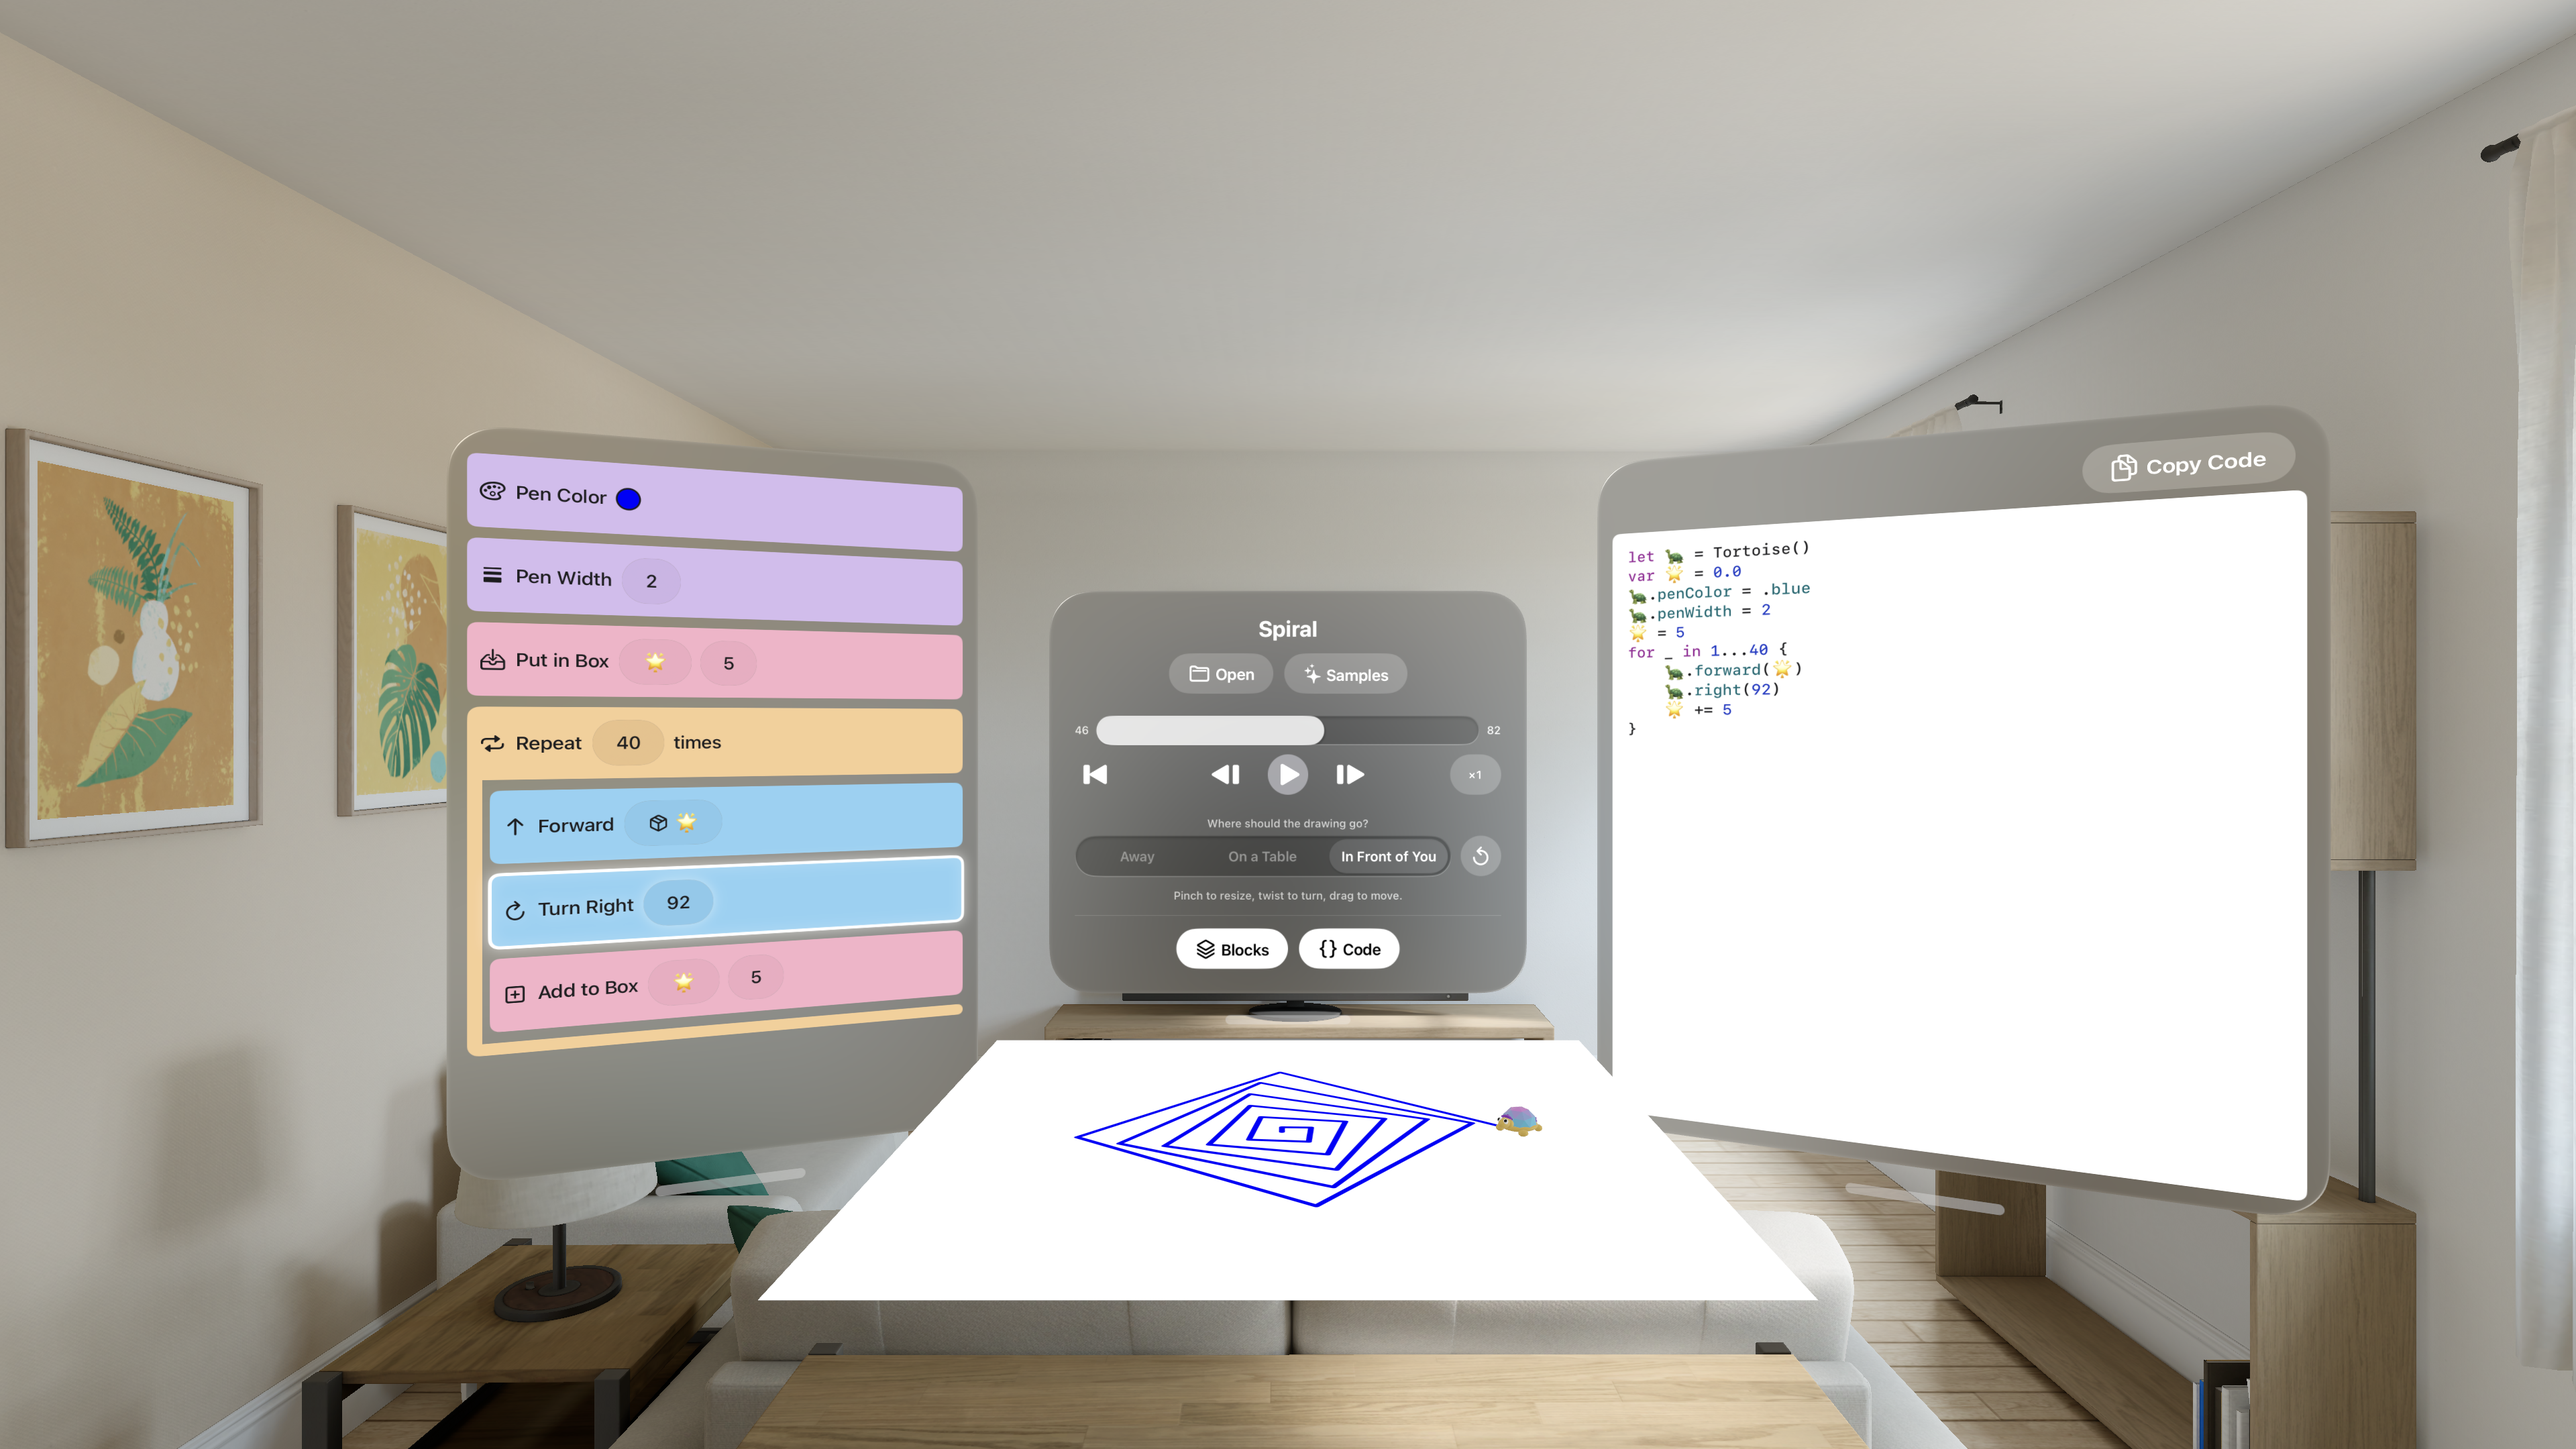
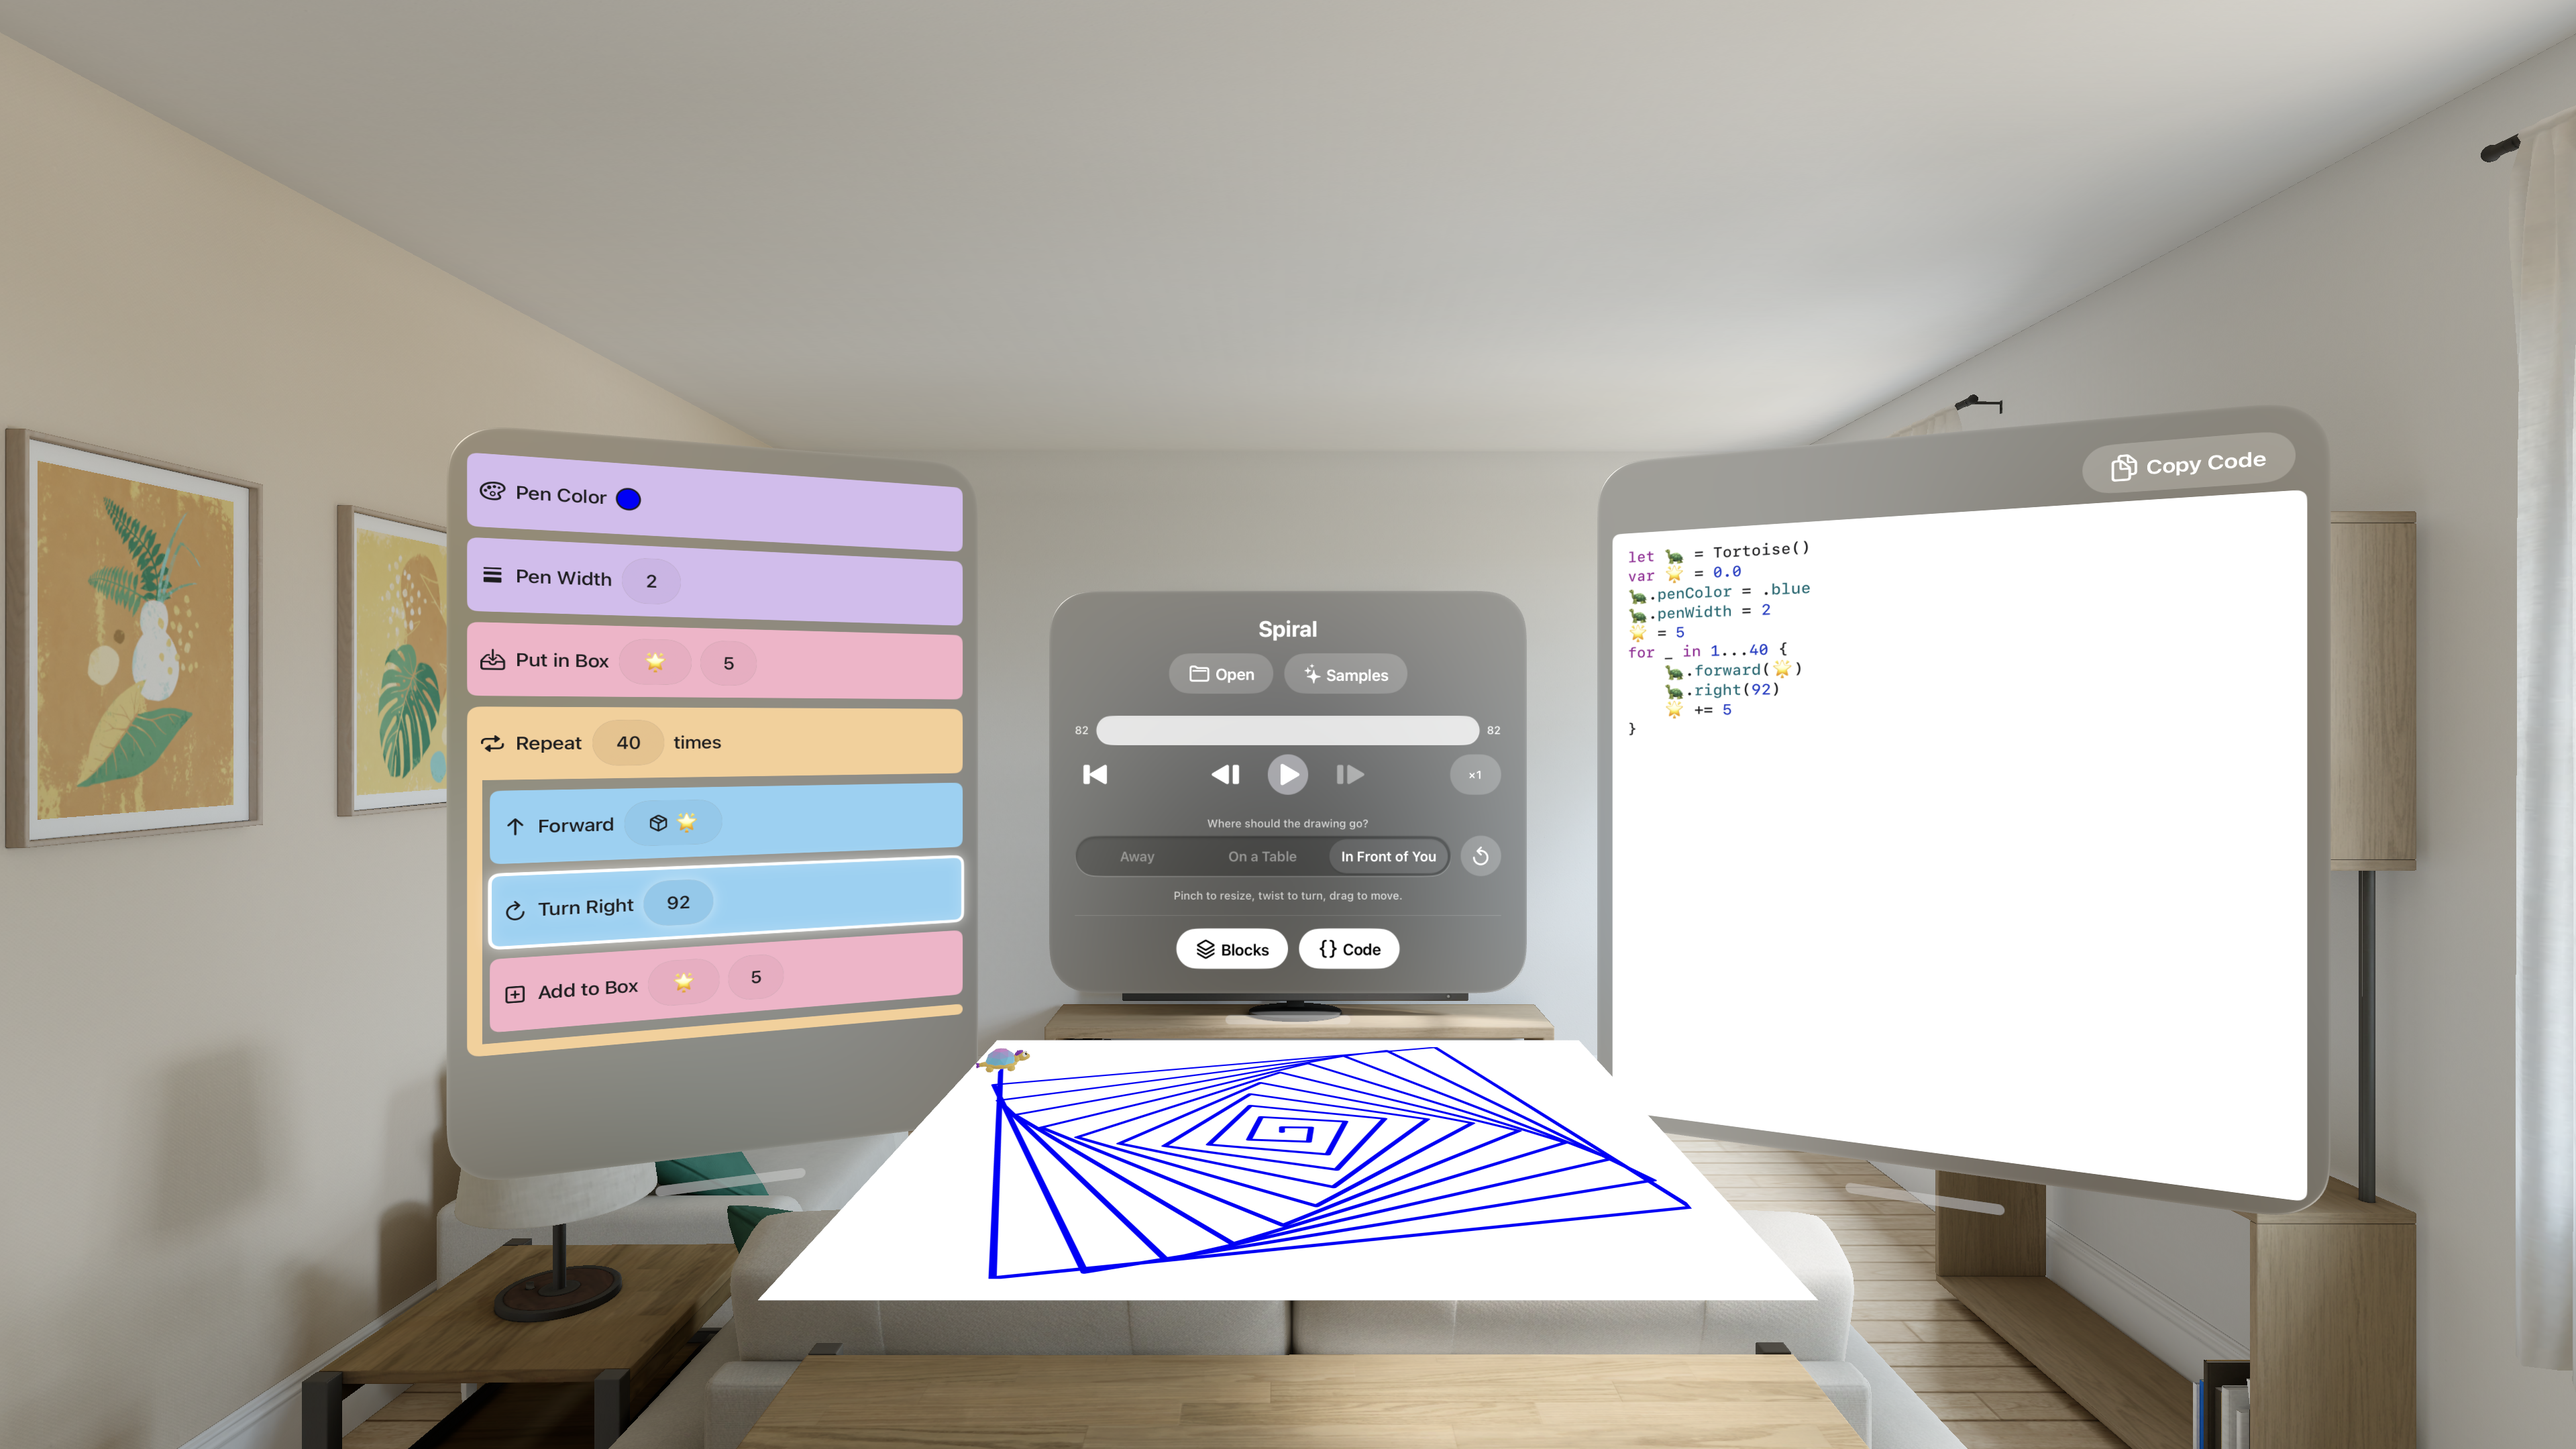
Reinstall before every visionOS capture, and finish the spiral
The English star had two blocks windows in it, one of them up by the ceiling.
visionOS restores an app's windows, so each launch inherited wherever the last
one left them and then opened its own on top — which is also what had the
framing wandering between captures that were meant to be identical, and quite
possibly what the "no sheet" runs were as well.

Uninstalling before each attempt takes the scene state with it. Every shot now
starts from the same empty room, and the six captures agree with each other
across both languages.

The spiral is drawn to the end like the other two. The half-drawn version made
its own argument — the tortoise standing on a line still growing under it —
but it also put a visibly unfinished picture in a set of three, and a shopper
reading a row of screenshots has no way to know that was deliberate.

Changed region(s): [[0.375, 0.7134, 0.6562, 0.8995], [0.5, 0.4963, 0.5938, 0.5273]]

diff --git a/Tools/visionos-shots.rb b/Tools/visionos-shots.rb
@@ -44,14 +44,9 @@ LOCALES = { "en-US" => "en", "ja" => "ja" }.freeze
 # the paper is nearer than the windows, so a larger one occludes them. 0.8
 # ate the bottom of both the blocks and the code, which is the arrangement
 # these captures exist to show.
-#
-# The spiral stops partway on purpose. A finished picture is what the iPad and
-# Mac shots already say; what only this platform can say is that the tortoise
-# is *standing on the paper drawing it*, and that needs a line still being
-# drawn under its feet.
 SHOTS = [
   { name: "1_star_table", sample: "star", draw: 1.0, sheet: "0.7,1.2,0.38" },
-  { name: "2_spiral_table", sample: "spiral", draw: 0.55, sheet: "0.7,1.2,0.38" },
+  { name: "2_spiral_table", sample: "spiral", draw: 1.0, sheet: "0.7,1.2,0.38" },
   { name: "3_tree_table", sample: "tree", draw: 1.0, sheet: "0.7,1.2,0.38" }
 ].freeze
 
@@ -105,9 +100,18 @@ def ready?(udid, pid)
   false
 end
 
+# Reinstalled before every attempt, not once before the run.
+#
+# visionOS restores an app's windows, so a launch inherits wherever the last
+# one left them — and then opens its own on top. That is two blocks windows in
+# the frame, one of them near the ceiling, and it is what made the framing
+# wander between captures that were supposed to be identical. Uninstalling
+# takes the scene state with it, so every shot starts from the same room.
 def capture(udid, shot, locale, language)
   ATTEMPTS.times do |attempt|
     simctl("terminate", udid, BUNDLE_ID)
+    simctl("uninstall", udid, BUNDLE_ID)
+    simctl("install", udid, APP_BUNDLE.to_s)
     sleep(2)
     launched = simctl(
       "launch", udid, BUNDLE_ID,
@@ -140,8 +144,9 @@ shots = wanted.empty? ? SHOTS : SHOTS.select { |shot| wanted.any? { |w| shot[:na
 abort("Nothing matches #{wanted.join(', ')}") if shots.empty?
 
 udid = device
+APP_BUNDLE = app_bundle
 puts "device #{udid}"
-simctl("install", udid, app_bundle.to_s)
+puts "app    #{APP_BUNDLE}"
 
 LOCALES.each do |locale, language|
   shots.each do |shot|
